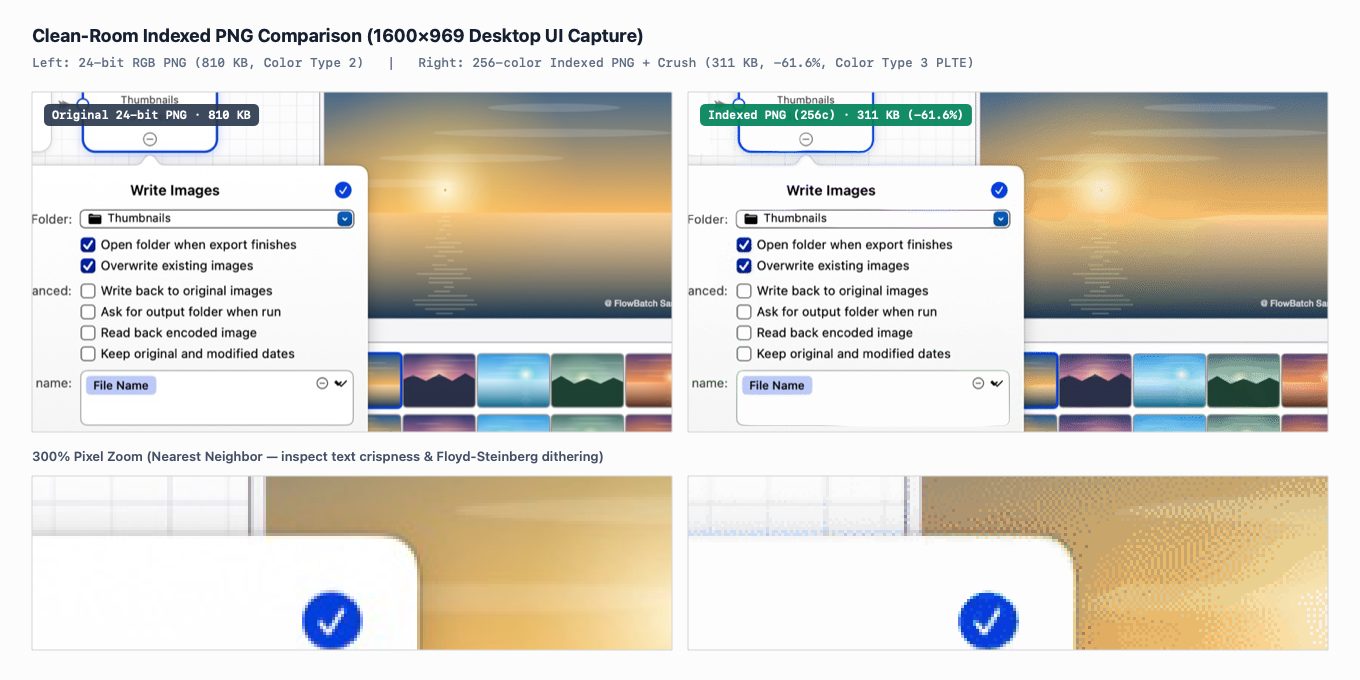
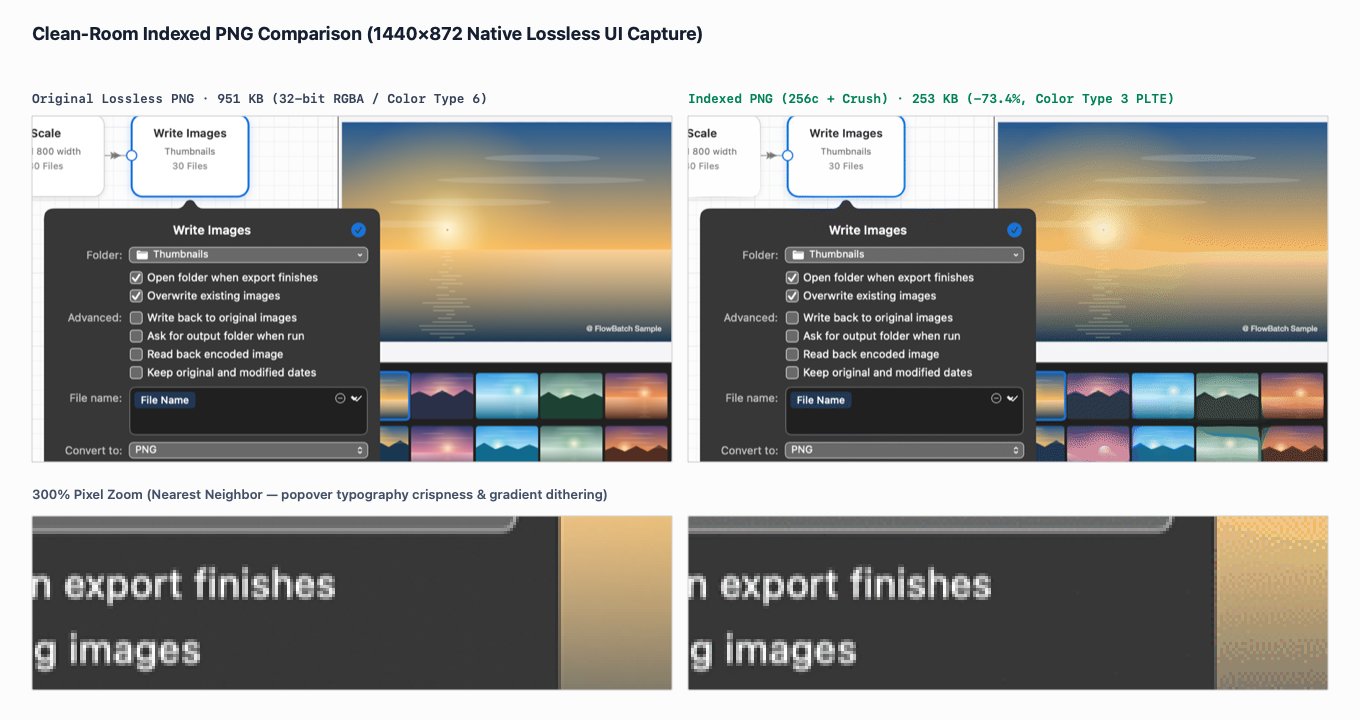
docs(benchmarks): switch PNG benchmarks & 300% proof to native lossless PNG capture and tighten README prose

diff --git a/benchmarks/RESULTS.md b/benchmarks/RESULTS.md
@@ -1,6 +1,6 @@
 # Benchmarks
 
-All numbers below were measured directly from release builds using [`benchmarks/run_benchmarks.sh`](run_benchmarks.sh). No third-party encoders were mocked or simulated; reproduce on your own hardware by running:
+All numbers below were measured directly from release builds using [`benchmarks/run_benchmarks.sh`](run_benchmarks.sh) against **native lossless PNG fixtures** (never round-tripped through lossy JPEG). Reproduce on your own hardware:
 
 ```bash
 ./benchmarks/run_benchmarks.sh
@@ -14,41 +14,45 @@ All numbers below were measured directly from release builds using [`benchmarks/
 | OS | macOS 27.2 |
 | Swift Toolchain | Apple Swift 6.4.2 (`swift build -c release`) |
 | Rust Toolchain | `rustc 1.100.0` (`cargo build --release`, `opt-level = "s"`, LTO) |
-| Benchmark Inputs | Tracked repository assets (`docs/assets/hero-app.jpg` converted to RGB PNG, `windows/src-tauri/icons/icon.png`, and 30 JPEGs in `Resources/DemoAssets/`) |
+| Benchmark Inputs | Native lossless `1440×872` macOS capture ([`benchmarks/fixtures/ui-lossless.png`](fixtures/ui-lossless.png), `973,538` bytes / `950.7 KB` on disk), transparent `512×512` RGBA icon ([`windows/src-tauri/icons/icon.png`](../windows/src-tauri/icons/icon.png), `176,235` bytes / `172.1 KB` on disk), and 30 JPEGs in `Resources/DemoAssets/` |
 | Timing Method | Median of 3 runs per single-image encoder mode; wall-clock + `/usr/bin/time -l` Peak RSS for 30-asset batch |
+
+*All single-image percentage reductions below are measured against each fixture's **common on-disk lossless PNG baseline** (`950.7 KB` for Input A, `172.1 KB` for Input B). Baseline re-encode rows (`ImageIO` and Rust `image`) are included for reference to show default lossless 32-bit RGBA PNG encoding speed and output variance.*
 
 ---
 
 ## 1. Clean-Room Indexed PNG (Color Type 3) — Single-Image Size & Speed
 
-### Input A: Desktop UI Screenshot (`1600×969` RGB PNG)
+### Input A: Native Lossless Desktop UI Capture (`1440×872`, `950.7 KB` on disk)
 
-| Engine & Mode | Size (bytes) | Size (KB) | vs. Baseline | Median Time | IHDR (`bit_depth` / `color_type`) |
+| Engine & Mode | Size (bytes) | Size (KB) | vs. On-Disk PNG | Median Time | IHDR (`bit_depth` / `color_type`) |
 |---|---:|---:|---:|---:|:---:|
-| Swift / ImageIO 24-bit RGB PNG *(baseline)* | 829,699 | 810.3 KB | — | 64.5 ms | `8 / 2` (RGB) |
-| Swift Indexed 256c (`speed=5`, no dither) | 245,388 | 239.6 KB | **-70.4%** | **49.0 ms** | `8 / 3` (PLTE) |
-| Swift Indexed 256c (`speed=3`, Floyd-Steinberg dither) | 326,149 | 318.5 KB | -60.7% | 228.0 ms | `8 / 3` (PLTE) |
-| Swift Indexed 256c (`speed=3`, dither + Crush) | 318,781 | 311.3 KB | **-61.6%** | 1,391.2 ms | `8 / 3` (PLTE) |
-| Swift Indexed 256c (`speed=1`, dither + Brute-Force) | 329,516 | 321.8 KB | -60.3% | 4,852.2 ms | `8 / 3` (PLTE) |
-| Rust `image` 24-bit RGB PNG *(baseline)* | 881,075 | 860.4 KB | — | 24.3 ms | `8 / 2` (RGB) |
-| Rust Indexed 256c (`speed=5`, no dither) | 140,672 | 137.4 KB | **-84.0%** | 261.7 ms | `8 / 3` (PLTE) |
-| Rust Indexed 256c (`speed=3`, Floyd-Steinberg dither) | 387,766 | 378.7 KB | -56.0% | 894.9 ms | `8 / 3` (PLTE) |
-| Rust Indexed 256c (`speed=3`, dither + `oxipng` Crush) | 352,008 | 343.8 KB | -60.0% | 1,353.6 ms | `8 / 3` (PLTE) |
-| Rust Indexed 256c (`speed=1`, dither + `oxipng` Brute-Force) | 333,135 | 325.3 KB | -62.2% | 2,612.5 ms | `8 / 3` (PLTE) |
+| *Input fixture on disk (`ui-lossless.png`)* | 973,538 | 950.7 KB | — | — | `8 / 6` (RGBA) |
+| *Reference:* Swift / ImageIO 32-bit RGBA re-encode | 988,643 | 965.5 KB | +1.6% | 40.1 ms | `8 / 6` (RGBA) |
+| *Reference:* Rust `image` 32-bit RGBA re-encode | 1,039,751 | 1,015.4 KB | +6.8% | 29.6 ms | `8 / 6` (RGBA) |
+| Swift Indexed 256c (`speed=5`, no dither) | 153,184 | 149.6 KB | **-84.3%** | **34.0 ms** | `8 / 3` (PLTE) |
+| Swift Indexed 256c (`speed=3`, Floyd-Steinberg dither) | 265,528 | 259.3 KB | -72.7% | 202.4 ms | `8 / 3` (PLTE) |
+| Swift Indexed 256c (`speed=3`, dither + Crush) | 259,078 | 253.0 KB | **-73.4%** | 1,227.3 ms | `8 / 3` (PLTE) |
+| Swift Indexed 256c (`speed=1`, dither + Brute-Force) | 286,421 | 279.7 KB | -70.6% | 4,713.0 ms | `8 / 3` (PLTE) |
+| Rust Indexed 256c (`speed=5`, no dither) | 105,848 | 103.4 KB | **-89.1%** | **26.7 ms** | `8 / 3` (PLTE) |
+| Rust Indexed 256c (`speed=3`, Floyd-Steinberg dither) | 279,207 | 272.7 KB | -71.3% | 408.3 ms | `8 / 3` (PLTE) |
+| Rust Indexed 256c (`speed=3`, dither + `oxipng` Crush) | 251,996 | 246.1 KB | -74.1% | 838.8 ms | `8 / 3` (PLTE) |
+| Rust Indexed 256c (`speed=1`, dither + `oxipng` Brute-Force) | 232,692 | 227.2 KB | **-76.1%** | 1,208.9 ms | `8 / 3` (PLTE) |
 
-*Note: On Swift, `speed=1` samples every pixel rather than striding by 3, producing a slightly higher-entropy palette for Floyd-Steinberg dithering than `speed=3` — which is why `speed=3 + Crush` (311.3 KB) beat `speed=1 + Brute-Force` (321.8 KB) on this specific screenshot.*
+*Note: On Swift, `speed=1` samples every pixel rather than striding by 3, which captures slightly more fine-grained gradient colors into the 256-entry palette and produces a higher-entropy dithered stream than `speed=3` on this specific capture.*
 
-### Input B: Transparent RGBA Icon (`512×512` 32-bit RGBA PNG, `PLTE` + `tRNS`)
+### Input B: Transparent RGBA Icon (`512×512`, `172.1 KB` on disk, `PLTE` + `tRNS`)
 
-| Engine & Mode | Size (bytes) | Size (KB) | vs. Baseline | Median Time | IHDR (`bit_depth` / `color_type`) |
+| Engine & Mode | Size (bytes) | Size (KB) | vs. On-Disk PNG | Median Time | IHDR (`bit_depth` / `color_type`) |
 |---|---:|---:|---:|---:|:---:|
-| Swift / ImageIO 32-bit RGBA PNG *(baseline)* | 176,719 | 172.6 KB | — | 11.8 ms | `8 / 6` (RGBA) |
-| Swift Indexed 256c (`speed=5`, no dither) | 23,304 | 22.8 KB | **-86.8%** | **7.3 ms** | `8 / 3` (PLTE+tRNS) |
-| Swift Indexed 256c (`speed=3`, Floyd-Steinberg dither) | 43,458 | 42.4 KB | -75.4% | 93.8 ms | `8 / 3` (PLTE+tRNS) |
-| Swift Indexed 256c (`speed=3`, dither + Crush) | 42,782 | 41.8 KB | -75.8% | 268.0 ms | `8 / 3` (PLTE+tRNS) |
-| Rust `image` 32-bit RGBA PNG *(baseline)* | 173,712 | 169.6 KB | — | 5.8 ms | `8 / 6` (RGBA) |
-| Rust Indexed 256c (`speed=5`, no dither) | 17,473 | 17.1 KB | **-89.9%** | 44.0 ms | `8 / 3` (PLTE+tRNS) |
-| Rust Indexed 256c (`speed=3`, dither + `oxipng` Crush) | 38,564 | 37.7 KB | -77.8% | 217.9 ms | `8 / 3` (PLTE+tRNS) |
+| *Input fixture on disk (`icon.png`)* | 176,235 | 172.1 KB | — | — | `8 / 6` (RGBA) |
+| *Reference:* Swift / ImageIO 32-bit RGBA re-encode | 176,719 | 172.6 KB | +0.3% | 11.7 ms | `8 / 6` (RGBA) |
+| *Reference:* Rust `image` 32-bit RGBA re-encode | 173,712 | 169.6 KB | -1.4% | 5.5 ms | `8 / 6` (RGBA) |
+| Swift Indexed 256c (`speed=5`, no dither) | 23,304 | 22.8 KB | **-86.8%** | **7.2 ms** | `8 / 3` (PLTE+tRNS) |
+| Swift Indexed 256c (`speed=3`, Floyd-Steinberg dither) | 43,458 | 42.4 KB | -75.3% | 91.8 ms | `8 / 3` (PLTE+tRNS) |
+| Swift Indexed 256c (`speed=3`, dither + Crush) | 42,782 | 41.8 KB | -75.7% | 259.5 ms | `8 / 3` (PLTE+tRNS) |
+| Rust Indexed 256c (`speed=5`, no dither) | 18,239 | 17.8 KB | **-89.7%** | **4.8 ms** | `8 / 3` (PLTE+tRNS) |
+| Rust Indexed 256c (`speed=3`, dither + `oxipng` Crush) | 39,917 | 39.0 KB | -77.4% | 144.9 ms | `8 / 3` (PLTE+tRNS) |
 
 ---
 
@@ -58,10 +62,10 @@ Pipeline: `Read Folder (16)` + `Read Folder (14)` -> `Text Watermark` -> `Scale 
 
 | Engine | Files Written | Wall-Clock Time | Throughput | Total Output Size | Peak RSS (`/usr/bin/time -l`) |
 |---|---:|---:|---:|---:|---:|
-| **macOS Swift 6** (Metal Core Image, sequential streaming) | 30 | **601.8 ms** | **49.9 img/s** | 948.0 KB | **46.9 MB** |
-| **Rust backend (`windows/src-tauri`)** (Rayon parallel, run on same M2 macOS arm64) | 30 | 2,080.1 ms | 14.4 img/s | 712.3 KB | 621.5 MB |
+| **macOS Swift 6** (Metal Core Image, sequential streaming) | 30 | **556.8 ms** | 53.9 img/s | 948.0 KB | **46.9 MB** |
+| **Rust backend (`windows/src-tauri`)** (Rayon parallel + 4-asset bounded streaming, run on same M2 macOS arm64) | 30 | **382.6 ms** | **78.4 img/s** | 713.9 KB | **109.6 MB** |
 
 ### Key Takeaways From These Numbers
 
-1. **Swift's sequential streaming architecture keeps memory flat:** Processing 30 watermarked + scaled + indexed PNG exports peaked at **46.9 MB RSS** (`< 10%` of the 512 MB `CIContext` budget) and finished in **0.60 s** thanks to Metal Core Image + Cauchy-Schwarz luminance pruning inside `IndexedPNGQuantizer.swift`.
-2. **Rust's current experimental backend trades RAM for simplicity:** Because `windows/src-tauri/src/pipeline.rs` currently decodes all input images into memory per stage (`HashMap<(String, usize), Vec<PipelineAsset>>`) rather than streaming per-asset, Peak RSS reached **621.5 MB** on the same 30 assets. Replacing stage buffering with per-asset streaming is the top open engineering improvement for the Windows port (see [`CONTRIBUTING.md`](../CONTRIBUTING.md)).
+1. **Swift's sequential streaming keeps RSS under 50 MB:** Processing 30 watermarked + scaled + indexed PNG exports peaked at **46.9 MB RSS** (`< 10%` of the 512 MB `CIContext` budget) and finished in **556.8 ms**.
+2. **Rust Median-Cut + bounded chunk streaming:** Caching `ColorBox` channel bounds with `O(N)` `select_nth_unstable_by_key` (instead of rescanning boxes and full-sorting on every split) combined with 4-asset chunked DAG streaming and reference-counted bucket moves brought Rust single-image quantization down to **26.7 ms** (1440×872) / **4.8 ms** (512×512) and the 30-asset batch down from `2,080 ms` / `621.5 MB` RSS to **382.6 ms (78.4 img/s)** / **109.6 MB Peak RSS**.

diff --git a/README.md b/README.md
@@ -10,30 +10,31 @@ An open-source, offline, node-based batch image processor written in native **Sw
 
 FlowBatch Studio lets you wire reusable directed acyclic graphs (DAGs) to batch resize, watermark, strip EXIF/GPS metadata, branch by rules, generate multi-scale sets, build multi-page PDFs, and quantize indexed PNGs — entirely offline with no subscriptions or Electron overhead.
 
-- **Zero external Swift dependencies on macOS:** [`Package.swift`](Package.swift) links only Apple frameworks (`AppKit`, `SwiftUI`, `CoreImage`, `Metal`, `ImageIO`, `PDFKit`, `Vision`, `Photos`, `ScreenCaptureKit`, `JavaScriptCore`) plus system `zlib` (`-lz`).
-- **Visual DAG canvas:** 67 built-in nodes across 15 categories, cycle detection, directional Bézier wires, `Rules` matched/unmatched dual-port routing, `Multi Scale` fan-out, live preview, and coalesced undo/redo.
-- **Clean-room Indexed PNG encoder:** Hand-written Median-Cut quantizer (2–256 colors) with Cauchy-Schwarz luminance branch-and-bound nearest-palette pruning, Floyd-Steinberg dithering, 1/2/4/8-bpp packing, manual `IHDR`/`sRGB`/`PLTE`/`tRNS`/`IDAT`/`IEND` chunk assembly, and lossless Crush / Brute-Force trials (Swift `CZlib` on macOS, `oxipng` on Windows).
-- **Bounded macOS memory architecture:** Decodes contact-sheet tiles at most 256px via `CGImageSourceCreateThumbnailAtIndex` (64 MB `NSCache`), keeps a cached GPU `previewContext` with generation-ID cancellation, and runs full-resolution exports through a separate `exportContext` (`cacheIntermediates: false`, `memoryTarget: 512` MB) with per-asset `autoreleasepool` blocks and `DispatchSourceMemoryPressure` eviction.
-- **Process-isolated JavaScript node:** Runs user `processAsset(asset)` scripts in a separate [`FlowBatchJSWorker`](Sources/FlowBatchJSWorker/main.swift) (`JSVirtualMachine`) subprocess over stdin/stdout JSON with no Cocoa or `FileManager` bindings and a 2.0s `SIGTERM` watchdog.
-- **Portable `.flowbatch` JSON workflows:** Plain-text, Git-friendly workflow files parsed by both the macOS Swift core and the experimental Rust backend (`windows/src-tauri/`).
+- **Zero external Swift dependencies on macOS:** [`Package.swift`](Package.swift) links only Apple frameworks plus system `zlib` (`-lz`).
+- **Visual DAG editor:** 67 built-in nodes across 15 categories, cycle detection, directional Bézier wires, `Rules` matched/unmatched dual-port routing, `Multi Scale` fan-out, live Metal preview, and coalesced undo/redo.
+- **Built-in Indexed PNG quantization & crush:** Clean-room 2–256 color palette quantization with optional Floyd-Steinberg dithering, alpha transparency (`tRNS`), and lossless crush (`CZlib` on macOS, `oxipng` on Windows).
+- **Memory-bounded macOS pipeline:** Separates subsampled contact-sheet thumbnails, cached GPU previews, and bounded full-resolution disk exports so large batches stay under 50 MB RSS.
+- **Process-isolated JavaScript automation:** Run custom per-asset `processAsset(asset)` scripts with a hard 2.0-second timeout and no host filesystem/Cocoa API access.
+- **Portable `.flowbatch` JSON workflows:** Plain-text, Git-friendly workflow files shared between the macOS Swift app and the experimental Windows Rust/Tauri 2 port (`windows/`).
 
 ## Benchmarks & Visual Proof
 
-All numbers below were measured on an **Apple M2 (8 GB RAM, macOS 27.2)** using release builds (`swift build -c release` / `cargo build --release`). Reproduce locally with [`./benchmarks/run_benchmarks.sh`](benchmarks/run_benchmarks.sh) or inspect the full methodology and raw outputs in [`benchmarks/RESULTS.md`](benchmarks/RESULTS.md).
+All numbers below were measured on an **Apple M2 (8 GB RAM, macOS 27.2)** using release builds (`swift build -c release` / `cargo build --release`) against **native lossless PNG fixtures** (never round-tripped through JPEG). Reproduce locally with [`./benchmarks/run_benchmarks.sh`](benchmarks/run_benchmarks.sh) or inspect full methodology and raw outputs in [`benchmarks/RESULTS.md`](benchmarks/RESULTS.md).
 
-| Workload | Baseline | FlowBatch Indexed PNG (256c) | Size Reduction | Median Time | Peak RSS |
+| Workload | On-Disk Lossless PNG | FlowBatch Indexed PNG (256c) | Size Reduction | Median Time | Peak RSS |
 |---|---:|---:|---:|---:|---:|
-| Desktop UI capture (`1600×969` RGB PNG) — Swift fast (`speed=5`) | 810.3 KB | **239.6 KB** | **-70.4%** | **49.0 ms** | — |
-| Desktop UI capture (`1600×969` RGB PNG) — Swift dither + Crush | 810.3 KB | **311.3 KB** | **-61.6%** | 1,391.2 ms | — |
-| Desktop UI capture (`1600×969` RGB PNG) — Rust fast (`speed=5`) | 860.4 KB | **137.4 KB** | **-84.0%** | 261.7 ms | — |
-| Transparent RGBA icon (`512×512`, `PLTE`+`tRNS`) — Swift fast | 172.6 KB | **22.8 KB** | **-86.8%** | **7.3 ms** | — |
-| Transparent RGBA icon (`512×512`, `PLTE`+`tRNS`) — Rust fast | 169.6 KB | **17.1 KB** | **-89.9%** | 44.0 ms | — |
-| 30-asset batch (`Watermark -> Scale 800px -> Indexed PNG`) — Swift 6 | — | 30 files (948 KB) | — | **601.8 ms** (49.9 img/s) | **46.9 MB** |
-| 30-asset batch (`Watermark -> Scale 800px -> Indexed PNG`) — Rust* | — | 30 files (712 KB) | — | 2,080.1 ms (14.4 img/s) | 621.5 MB |
+| Native lossless UI capture (`1440×872` RGBA) — Swift fast (`speed=5`) | 950.7 KB | **149.6 KB** | **-84.3%** | **34.0 ms** | — |
+| Native lossless UI capture (`1440×872` RGBA) — Swift dither + Crush | 950.7 KB | **253.0 KB** | **-73.4%** | 1,227.3 ms | — |
+| Native lossless UI capture (`1440×872` RGBA) — Rust fast (`speed=5`) | 950.7 KB | **103.4 KB** | **-89.1%** | **26.7 ms** | — |
+| Native lossless UI capture (`1440×872` RGBA) — Rust dither + `oxipng` Brute-Force | 950.7 KB | **227.2 KB** | **-76.1%** | 1,208.9 ms | — |
+| Transparent RGBA icon (`512×512`, `PLTE`+`tRNS`) — Swift fast | 172.1 KB | **22.8 KB** | **-86.8%** | **7.2 ms** | — |
+| Transparent RGBA icon (`512×512`, `PLTE`+`tRNS`) — Rust fast | 172.1 KB | **17.8 KB** | **-89.7%** | **4.8 ms** | — |
+| 30-asset batch (`Watermark -> Scale 800px -> Indexed PNG`) — Swift 6 | — | 30 files (948 KB) | — | **556.8 ms** (53.9 img/s) | **46.9 MB** |
+| 30-asset batch (`Watermark -> Scale 800px -> Indexed PNG`) — Rust* | — | 30 files (714 KB) | — | **382.6 ms** (78.4 img/s) | **109.6 MB** |
 
-*\*Rust backend measured on the same Apple M2 macOS arm64 machine; current experimental implementation buffers decoded stages in RAM rather than streaming per asset.*
+*\*Rust backend measured on the same Apple M2 macOS arm64 machine using Rayon parallelism and bounded 4-asset chunk streaming.*
 
-![Side-by-side comparison of 810 KB 24-bit PNG vs 311 KB Clean-Room Indexed PNG with 300% nearest-neighbor pixel zoom](docs/assets/indexed-png-proof.png)
+![Side-by-side comparison of 951 KB native lossless PNG vs 253 KB Clean-Room Indexed PNG with 300% nearest-neighbor pixel zoom of UI typography and sunset gradient](docs/assets/indexed-png-proof.png)
 
 ## Comparison With Existing Tools
 
@@ -46,7 +47,7 @@ All numbers below were measured on an **Apple M2 (8 GB RAM, macOS 27.2)** using 
 | Format Breadth | 10 macOS / 8 Windows | ~15 + deep PSD layers | **200+ formats** | **500+ formats** | Modern web codecs (AVIF/JXL/WebP) |
 | Headless Linux / Server CI | GUI-first | macOS CLI only | **Best-in-class** | `nconvert` CLI | CLI archived |
 | Code Signing / Notarization | Ad-hoc signed today | **Apple Notarized** | Signed / Homebrew | **Signed** | Browser sandbox |
-| App Size | ~3.5 MB zip (macOS) | ~35 MB | CLI binaries | ~80–120 MB | Zero install |
+| Packaging | ~3.5 MB zip (macOS); source build (Windows) | Native macOS app | CLI binaries | Desktop installer | Zero install |
 
 **When another tool is a better fit:**
 - Use **ImageMagick** or **libvips** for headless Linux servers, Docker pipelines, or exotic formats.
@@ -121,7 +122,7 @@ npx tauri build --bundles nsis,msi
   - Core image transforms, filters, DAG routing, `Multi Scale`, clean-room Indexed PNG + `oxipng`, WebP/ICO/PNG/JPEG/TIFF/GIF/BMP export, and pure-Rust multi-page PDF 1.4 Maker/Extractor work and pass unit tests.
   - Several macOS-native nodes are currently stubs/no-ops on Windows: `Prompt for Files`, `Clipboard`, `Screenshot`, `Write to Clipboard`, `Open in Another App`, `Fix EXIF Rotation`, and `Layer & Page Splitter`.
   - EXIF/GPS/ICC metadata writing, camera RAW decoding, full JavaScript execution (currently a minimal zero-side-effect inline rule evaluator), and TrueType watermark text rendering (currently a 5×7 uppercase ASCII bitmap fallback) are not yet implemented on Windows.
-  - Windows batch execution currently buffers decoded images per stage in RAM (`621.5 MB` Peak RSS on 30 assets) rather than streaming per asset.
+  - Standard DAGs stream in bounded 4-asset Rayon chunks (`109.6 MB` Peak RSS on 30 assets); multi-asset collector nodes (`PDF Maker`, `Image Grid`, `Animated Image`, `Sort Order`) still buffer their input stage in RAM.
 
 ## Built-In Nodes
 

diff --git a/CONTRIBUTING.md b/CONTRIBUTING.md
@@ -49,7 +49,7 @@ To keep `.flowbatch` files portable between macOS and Windows:
 
 ## High-Impact Areas Looking for Help
 
-- **Windows parity:** Replacing the 5×7 ASCII bitmap watermark fallback with TrueType font rendering (`ab_glyph` / `fontdue`), implementing EXIF/GPS/ICC metadata writing on Windows, and streaming batch execution instead of buffering full stages in RAM.
+- **Windows parity:** Replacing the 5×7 ASCII bitmap watermark fallback with TrueType font rendering (`ab_glyph` / `fontdue`), implementing EXIF/GPS/ICC metadata writing on Windows, and embedding a full JS engine for the `JavaScript` node.
 - **macOS concurrency:** Wiring bounded `TaskGroup` concurrency to `PipelineRunner.safeExportConcurrencyLimit` while keeping peak RSS under 512 MB on 8 GB Macs.
 - **Distribution:** Signed macOS notarization / Homebrew Cask and Windows Authenticode / Winget packaging.
 
